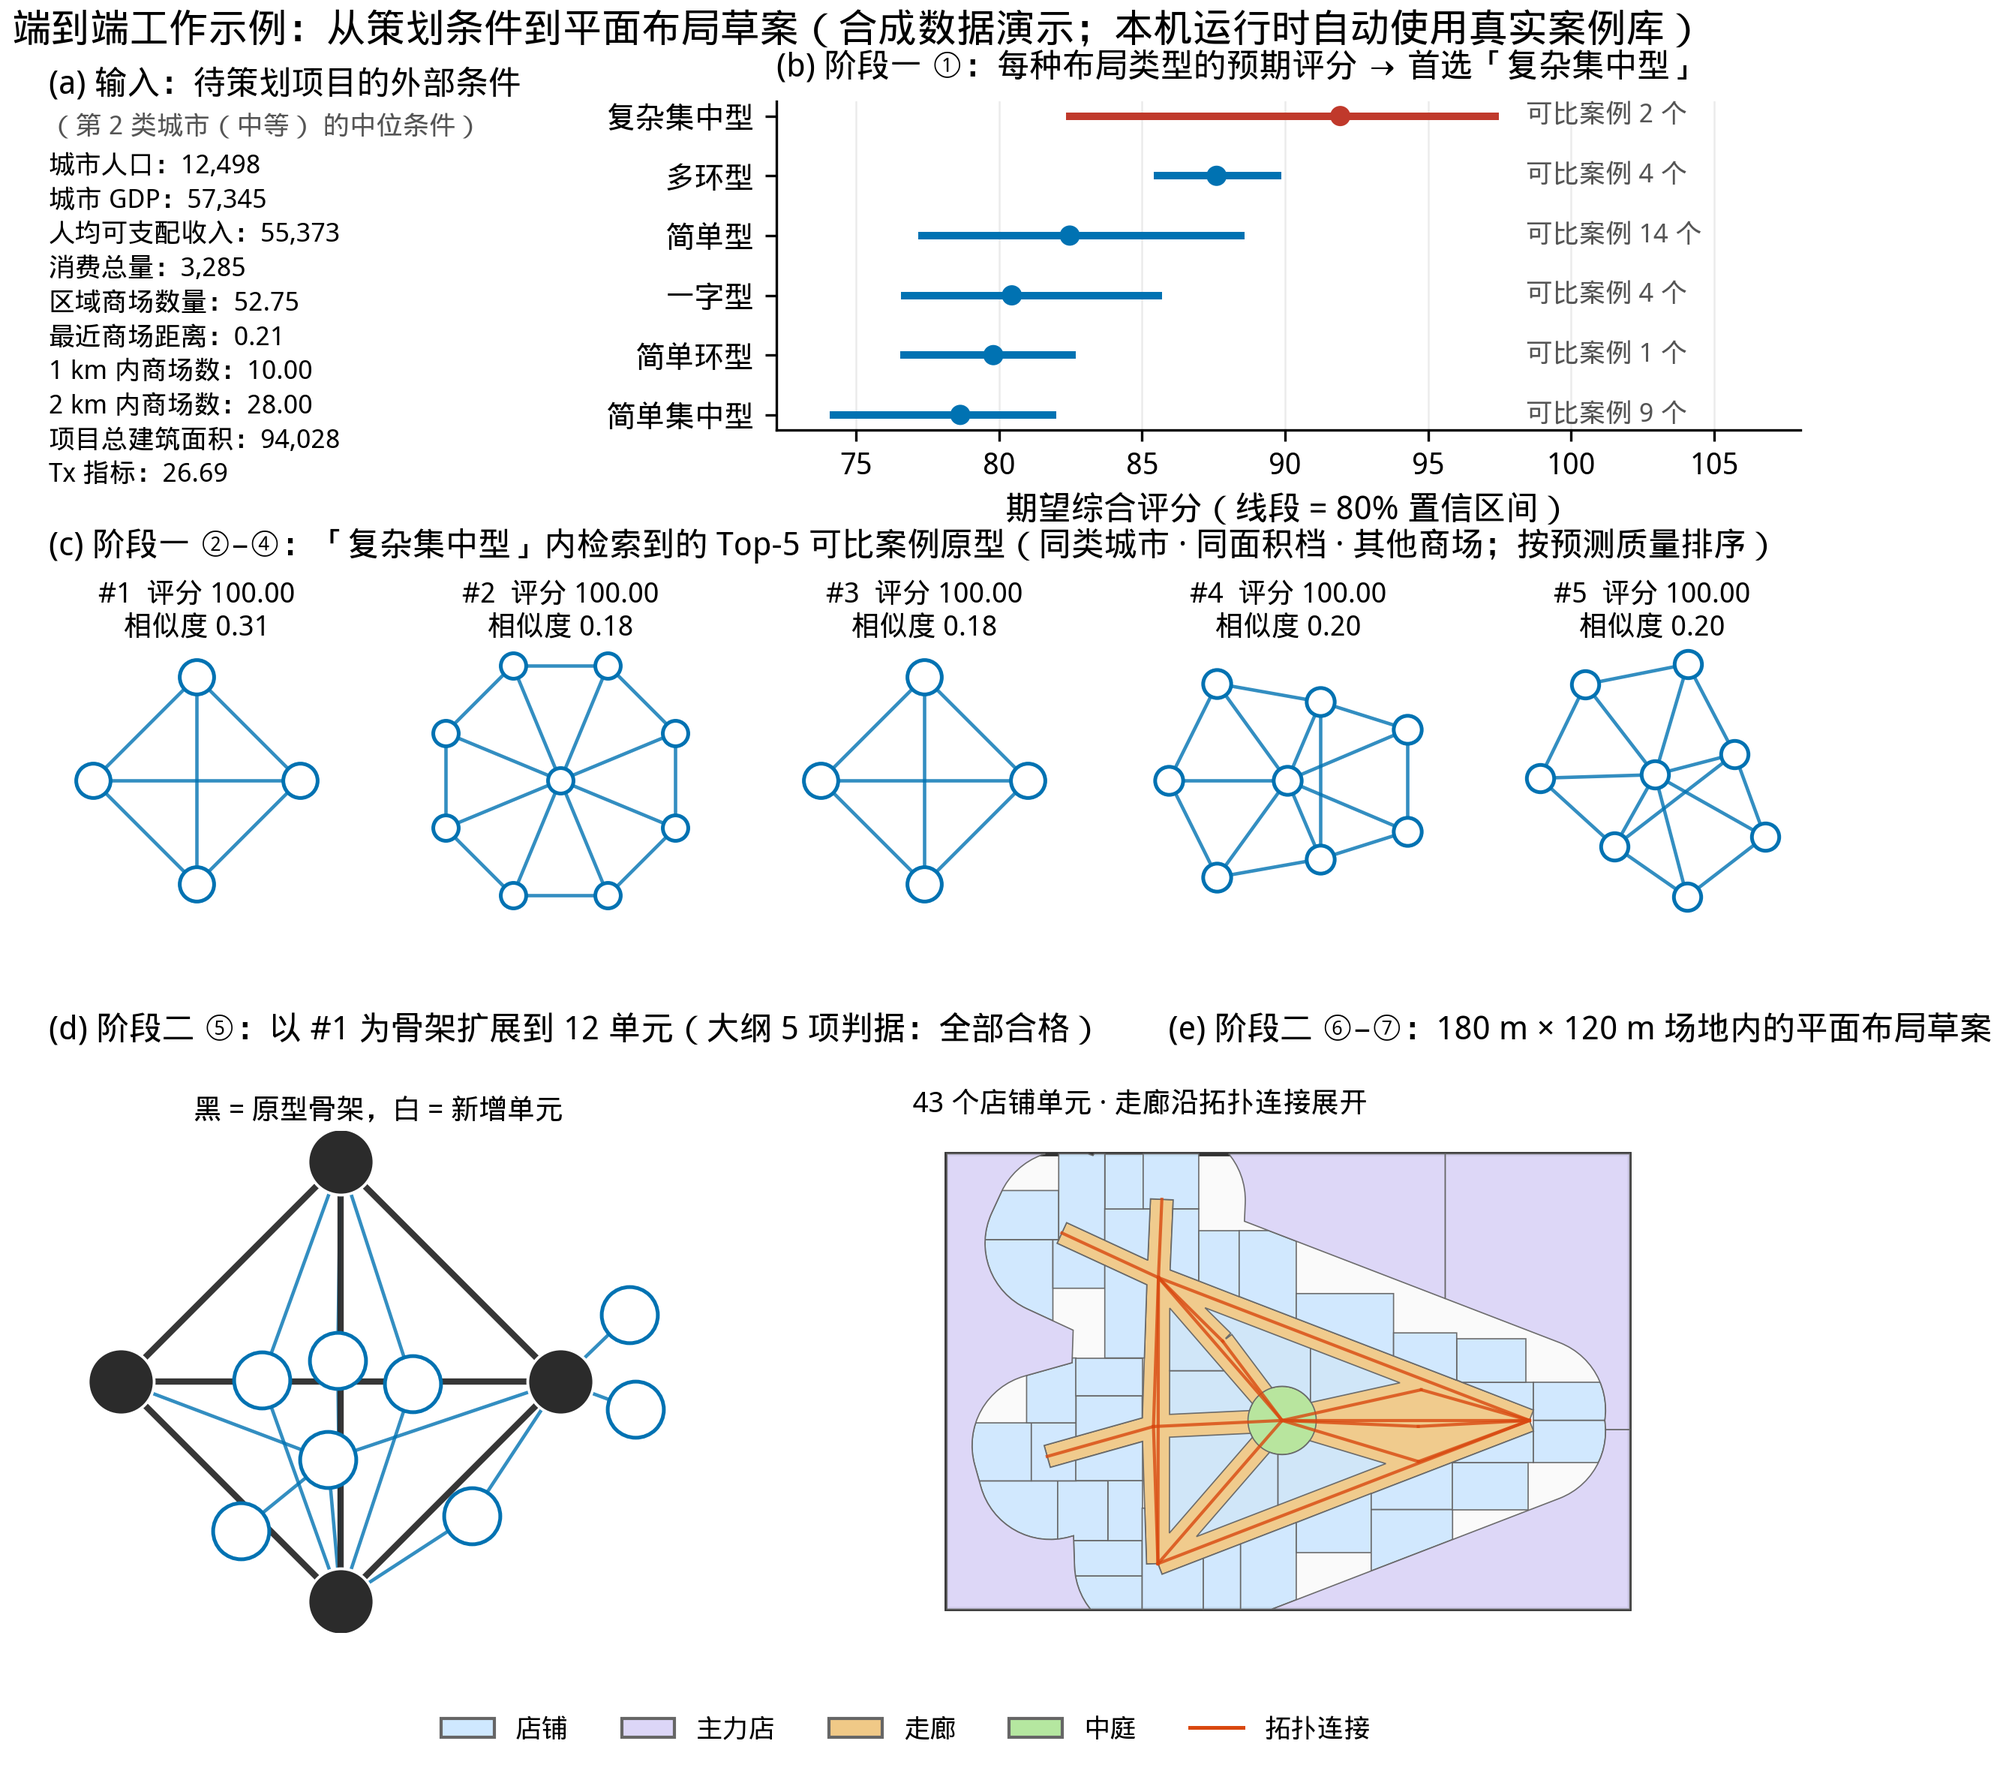
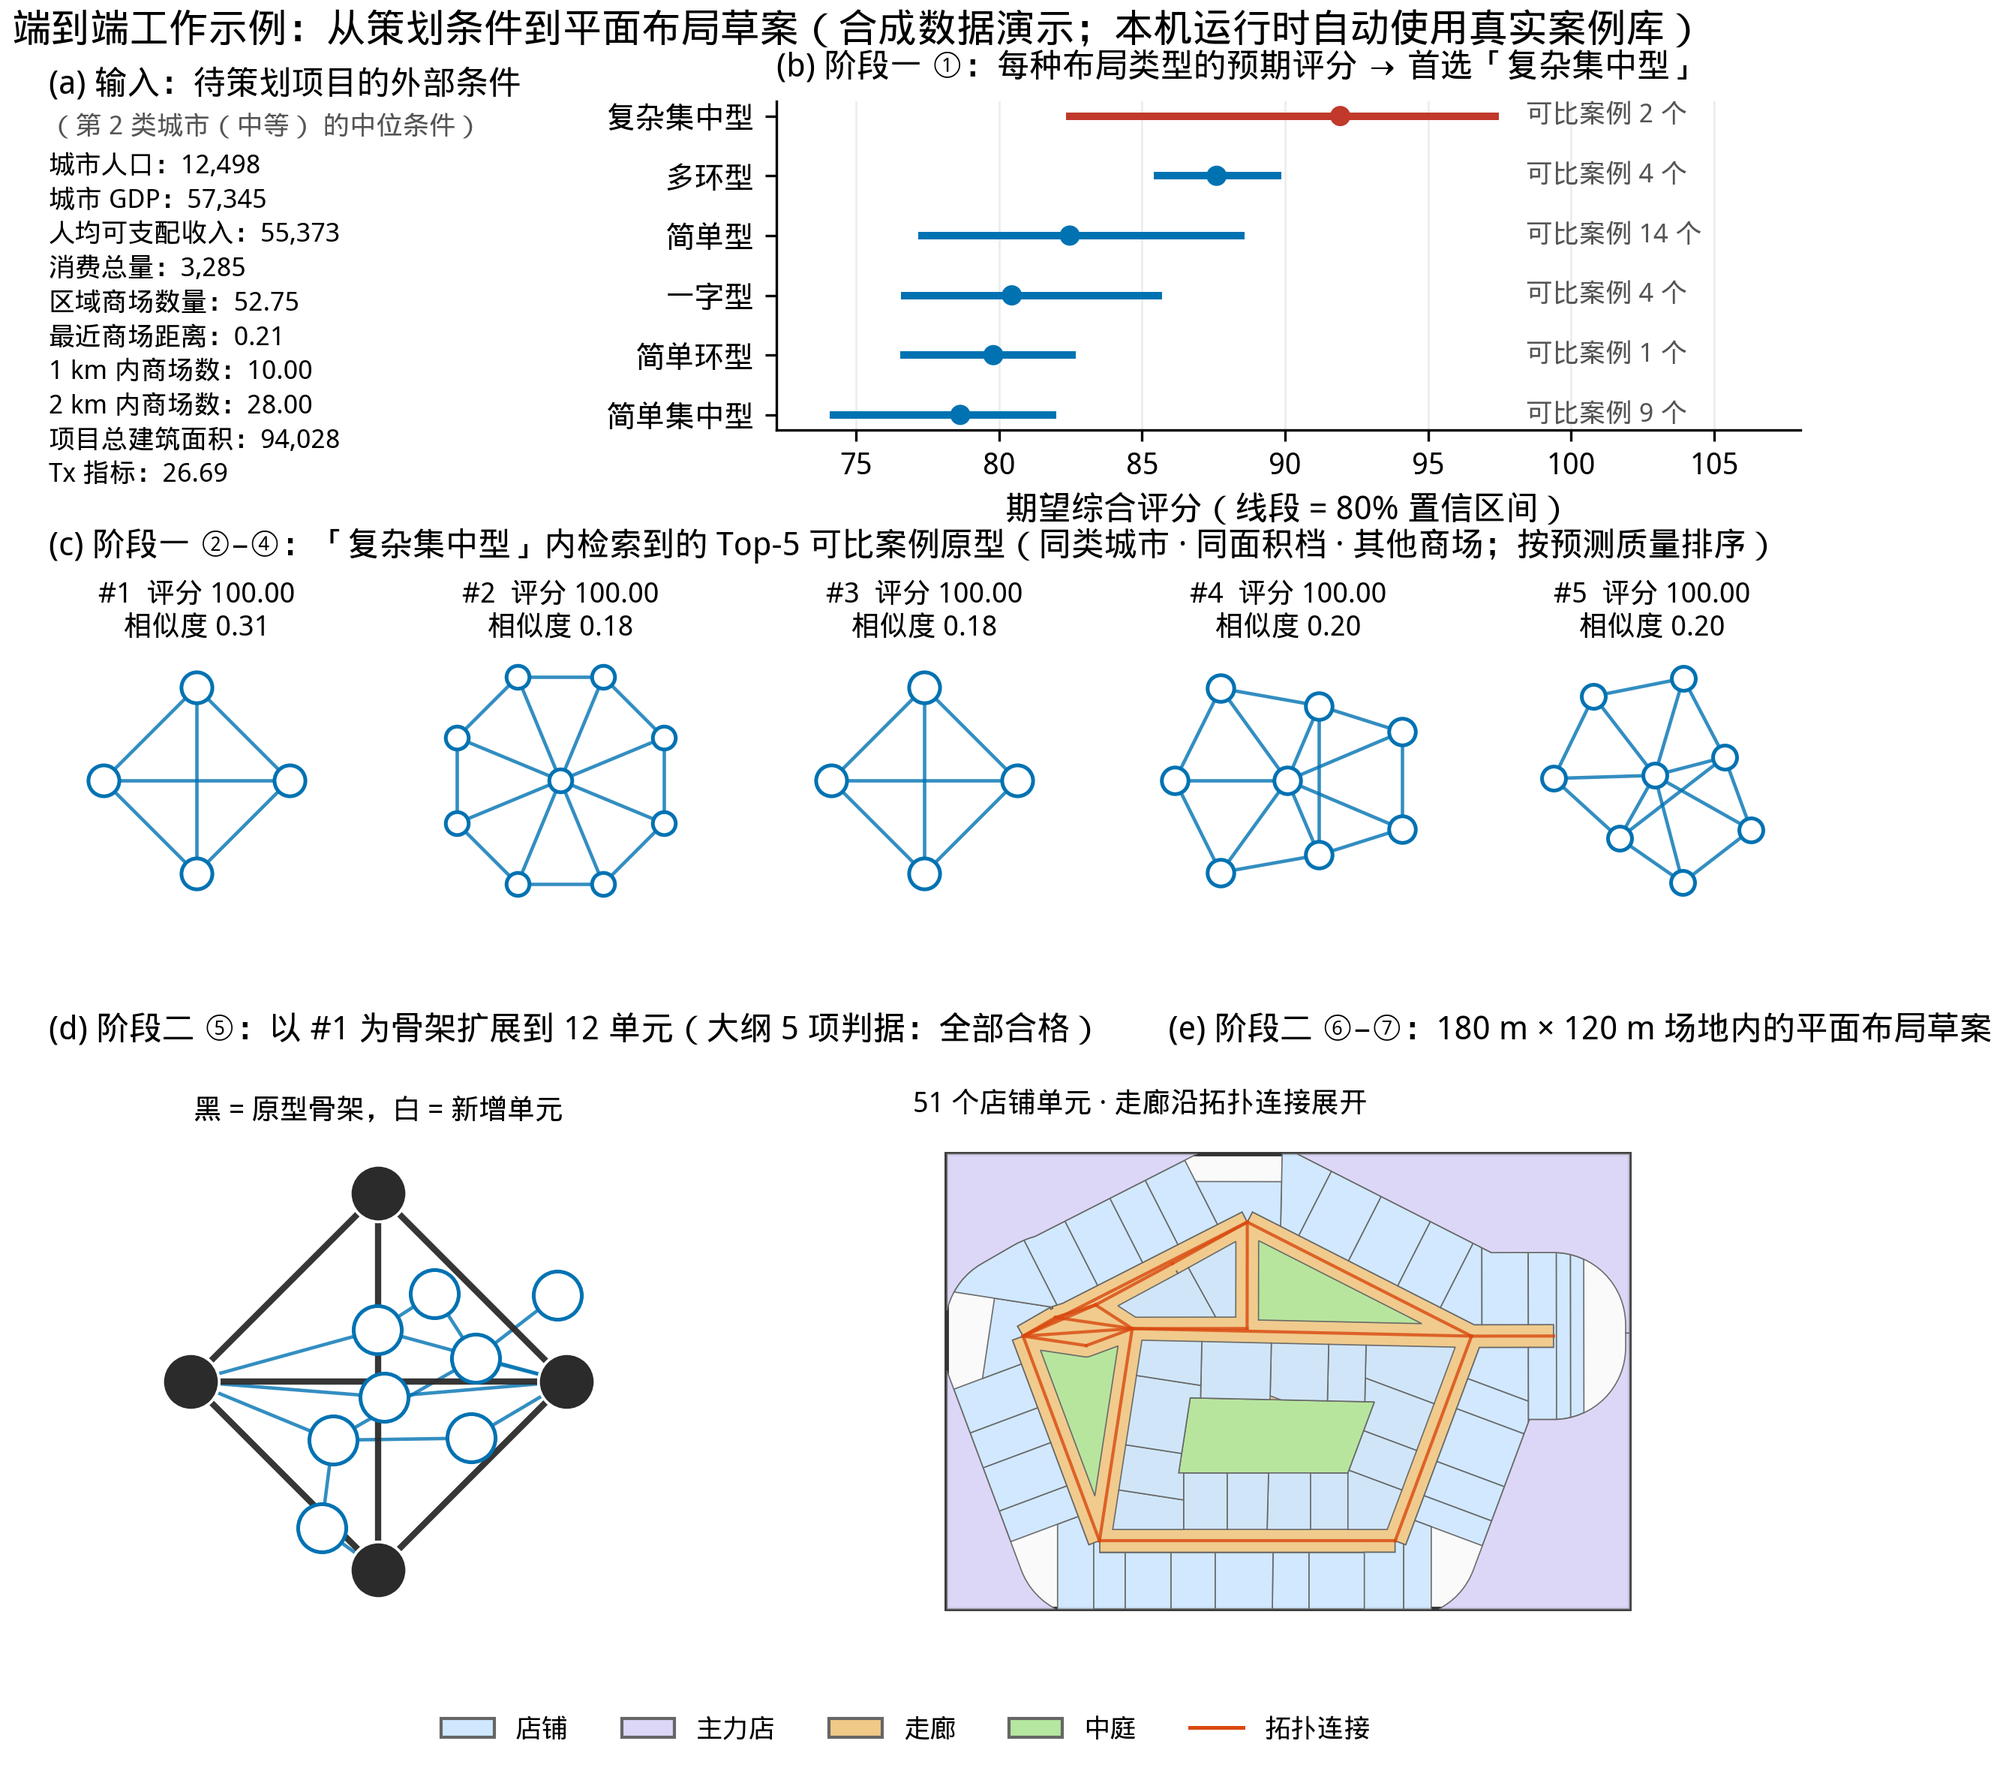
feat(stage2): rule expander bridge op + planar guard; round-5 Mac script (corpus v2 build, calibrated thresholds, v3 ablations greedy_order/no_planar); preview_decoder + calibrate_stage2_thresholds scripts; F09 with planar_corridor; docs

diff --git a/src/mall_space_planner/stage2/generators/rule_expander.py b/src/mall_space_planner/stage2/generators/rule_expander.py
@@ -10,7 +10,13 @@ nodes by three operations chosen stochastically with configurable probabilities,
 * ``branch``     – attach a degree-1 node (dead-end corridor / anchor shop) to a node,
   preferring low-degree skeleton nodes.
 * ``chord``      – connect two existing nodes at graph distance 2–3 to create a loop
-  (only for loop-type layouts by default).
+  (only for loop-type layouts by default). Since corpus v2 showed that real expansions never add
+  an edge between two *skeleton* nodes, chords whose both endpoints are skeleton nodes are skipped.
+* ``bridge``     – add a node connected to **two** existing nodes at graph distance 2–4 (a new
+  corridor segment closing a loop through the new key-point) – the dominant growth pattern in the
+  real corridor topologies (≈ 75 % of new nodes have ≥ 2 anchors).
+
+``planar_guard`` (default on) rejects operations that would make the graph non-planar.
 
 The mixture is tuned so that density and ASPL track the expected baselines of the
 evaluation spec: the target average degree is kept close to the skeleton's average degree.
@@ -32,15 +38,16 @@ from mall_space_planner.stage2.base import BaseTopologyGenerator, GenerationRequ
 from mall_space_planner.topology.convert import from_networkx, to_networkx
 
 _LAYOUT_PRIORS: dict[LayoutType | None, dict[str, float]] = {
-    None: {"subdivide": 0.35, "branch": 0.45, "chord": 0.20},
-    LayoutType.LINEAR: {"subdivide": 0.35, "branch": 0.60, "chord": 0.05},
-    LayoutType.SIMPLE: {"subdivide": 0.30, "branch": 0.65, "chord": 0.05},
-    LayoutType.SIMPLE_LOOP: {"subdivide": 0.40, "branch": 0.45, "chord": 0.15},
-    LayoutType.MULTI_LOOP: {"subdivide": 0.35, "branch": 0.30, "chord": 0.35},
-    LayoutType.SIMPLE_CENTRAL: {"subdivide": 0.30, "branch": 0.60, "chord": 0.10},
-    LayoutType.COMPLEX_CENTRAL: {"subdivide": 0.30, "branch": 0.40, "chord": 0.30},
-    LayoutType.UNKNOWN: {"subdivide": 0.35, "branch": 0.45, "chord": 0.20},
+    None: {"subdivide": 0.30, "branch": 0.30, "chord": 0.10, "bridge": 0.30},
+    LayoutType.LINEAR: {"subdivide": 0.35, "branch": 0.40, "chord": 0.05, "bridge": 0.20},
+    LayoutType.SIMPLE: {"subdivide": 0.30, "branch": 0.45, "chord": 0.05, "bridge": 0.20},
+    LayoutType.SIMPLE_LOOP: {"subdivide": 0.35, "branch": 0.30, "chord": 0.10, "bridge": 0.25},
+    LayoutType.MULTI_LOOP: {"subdivide": 0.30, "branch": 0.20, "chord": 0.15, "bridge": 0.35},
+    LayoutType.SIMPLE_CENTRAL: {"subdivide": 0.30, "branch": 0.40, "chord": 0.05, "bridge": 0.25},
+    LayoutType.COMPLEX_CENTRAL: {"subdivide": 0.30, "branch": 0.25, "chord": 0.15, "bridge": 0.30},
+    LayoutType.UNKNOWN: {"subdivide": 0.30, "branch": 0.30, "chord": 0.10, "bridge": 0.30},
 }
+_OP_NAMES = ["subdivide", "branch", "chord", "bridge"]
 
 
 @dataclass
@@ -48,9 +55,10 @@ class _Ops:
     subdivide: float
     branch: float
     chord: float
+    bridge: float = 0.0
 
     def normalised(self) -> np.ndarray:
-        v = np.array([self.subdivide, self.branch, self.chord], dtype=float)
+        v = np.array([self.subdivide, self.branch, self.chord, self.bridge], dtype=float)
         return v / v.sum()
 
 
@@ -74,11 +82,13 @@ class RuleBasedExpander(BaseTopologyGenerator):
         target_degree_tolerance: float = 0.15,
         label_style: str = "letters",
         max_iters_factor: int = 20,
+        planar_guard: bool = True,
     ) -> None:
         self.op_probs = op_probs
         self.target_degree_tolerance = target_degree_tolerance
         self.label_style = label_style
         self.max_iters_factor = max_iters_factor
+        self.planar_guard = planar_guard
 
     # ------------------------------------------------------------------ helpers
     def _ops(self, layout: LayoutType | None) -> _Ops:
@@ -109,6 +119,15 @@ class RuleBasedExpander(BaseTopologyGenerator):
         layout = request.constraints.layout_type or request.prototype.layout_type
         probs = self._ops(layout).normalised()
         ref_deg = self._avg_degree(g)
+        sk_nodes = set(skeleton.nodes)
+
+        def _try_add(w: str, anchors: list[str]) -> bool:
+            g.add_node(w)
+            g.add_edges_from((a, w) for a in anchors)
+            if self.planar_guard and len(anchors) >= 2 and not nx.check_planarity(g)[0]:
+                g.remove_node(w)
+                return False
+            return True
 
         counter = g.number_of_nodes()
         iters = 0
@@ -120,34 +139,47 @@ class RuleBasedExpander(BaseTopologyGenerator):
             cur = self._avg_degree(g)
             p = probs.copy()
             if cur > ref_deg * (1 + self.target_degree_tolerance):
-                p = p * np.array([0.5, 2.0, 0.2])
+                p = p * np.array([0.5, 2.0, 0.2, 0.4])
             elif cur < ref_deg * (1 - self.target_degree_tolerance):
-                p = p * np.array([1.5, 0.5, 1.5])
+                p = p * np.array([1.5, 0.5, 1.5, 1.5])
             p = p / p.sum()
-            op = ["subdivide", "branch", "chord"][int(rng.choice(3, p=p))]
+            op = _OP_NAMES[int(rng.choice(len(_OP_NAMES), p=p))]
 
             if op == "subdivide" and g.number_of_edges() > 0:
                 edges = list(g.edges)
                 u, v = edges[int(rng.randint(len(edges)))]
                 w = _new_label(g, self.label_style, counter)
-                counter += 1
-                g.add_node(w)
-                g.add_edge(u, w)
-                g.add_edge(w, v)  # keep (u,v) as well → skeleton edge preserved
+                if _try_add(w, [u, v]):  # keep (u,v) as well → skeleton edge preserved
+                    counter += 1
             elif op == "branch":
                 anchor = self._pick_node(g, rng, prefer_low_degree=True)
                 w = _new_label(g, self.label_style, counter)
                 counter += 1
                 g.add_node(w)
                 g.add_edge(anchor, w)
+            elif op == "bridge":  # new node closing a loop between two nodes at distance 2..4
+                u = self._pick_node(g, rng, prefer_low_degree=False)
+                lengths = nx.single_source_shortest_path_length(g, u, cutoff=4)
+                cands = [v for v, d in lengths.items() if 2 <= d <= 4]
+                w = _new_label(g, self.label_style, counter)
+                if cands and _try_add(w, [u, cands[int(rng.randint(len(cands)))]]):
+                    counter += 1
+                else:
+                    g.add_node(w)
+                    g.add_edge(u, w)
+                    counter += 1
             else:  # chord: connect nodes at distance 2..3 (does not add a node; bounded)
                 if g.number_of_nodes() < 4:
                     continue
                 u = self._pick_node(g, rng, prefer_low_degree=False)
                 lengths = nx.single_source_shortest_path_length(g, u, cutoff=3)
-                cands = [v for v, d in lengths.items() if 2 <= d <= 3 and not g.has_edge(u, v)]
+                # never add a skeleton–skeleton edge (violates the corpus invariant: prototype kept verbatim)
+                cands = [v for v, d in lengths.items() if 2 <= d <= 3 and not g.has_edge(u, v) and not (u in sk_nodes and v in sk_nodes)]
                 if cands:
-                    g.add_edge(u, cands[int(rng.randint(len(cands)))])
+                    v = cands[int(rng.randint(len(cands)))]
+                    g.add_edge(u, v)
+                    if self.planar_guard and not nx.check_planarity(g)[0]:
+                        g.remove_edge(u, v)
                 # a chord does not increase node count; add a branch to make progress
                 anchor = self._pick_node(g, rng, prefer_low_degree=True)
                 w = _new_label(g, self.label_style, counter)

diff --git a/scripts/calibrate_stage2_thresholds.py b/scripts/calibrate_stage2_thresholds.py
@@ -1,0 +1,56 @@
+#!/usr/bin/env python3
+"""Calibrate the Stage-2 outline thresholds on the *ground-truth* row of a corpus.
+
+The five outline metrics compare a generated topology with its skeleton (density / ASPL deviation
+etc.). Their pass thresholds were first set on corpus v1 (LLM-generated targets). On corpus v2 the
+real built topologies are much denser than their skeletons (sample B000A0E928_1: 28 → 83 edges), so
+the ground truth itself would fail a 40 % density-deviation threshold. This script sets every
+``*_max`` threshold to the ``--quantile`` (default 0.95) of the ground-truth distribution, so that
+"pass" means *within the range of real buildings*; it writes a YAML override you pass to the
+evaluations::
+
+  python scripts/evaluate_stage2.py --config configs/stage2/rule_baseline.yaml --corpus C.jsonl --ground-truth --override eval_output_dir=OUT
+  python scripts/calibrate_stage2_thresholds.py --gt OUT/ref_ground_truth/per_sample.csv --out configs/stage2/thresholds_v2.local.yaml
+  python scripts/evaluate_stage2.py --config configs/stage2/ar_gnn.yaml --override "$(cat configs/stage2/thresholds_v2.local.yaml.override)" ...
+
+Nothing is fabricated: the thresholds are data-derived and the file records the quantile + n.
+"""
+from __future__ import annotations
+
+import argparse
+import json
+from pathlib import Path
+
+import numpy as np
+import pandas as pd
+
+METRICS = {"node_deviation_pct": "node_deviation_pct_max", "density_deviation_pct": "density_deviation_pct_max", "aspl_deviation_pct": "aspl_deviation_pct_max"}
+
+
+def main() -> None:
+    ap = argparse.ArgumentParser()
+    ap.add_argument("--gt", required=True, help="per_sample.csv of the ref_ground_truth evaluation")
+    ap.add_argument("--quantile", type=float, default=0.95)
+    ap.add_argument("--out", default="configs/stage2/thresholds_v2.local.yaml")
+    a = ap.parse_args()
+    df = pd.read_csv(a.gt)
+    th = {}
+    for col, key in METRICS.items():
+        if col in df:
+            th[key] = float(np.ceil(np.nanquantile(df[col].astype(float), a.quantile)))
+    th["edge_accuracy_pct_min"] = 70.0  # prototype preservation is a hard invariant; keep
+    th["inference_time_s_max"] = 60.0
+    out = Path(a.out)
+    out.parent.mkdir(parents=True, exist_ok=True)
+    body = "# data-derived Stage-2 outline thresholds (quantile %.2f of the ground-truth row, n=%d)\n" % (a.quantile, len(df))
+    body += "stage2:\n  evaluator:\n    name: topology_spec\n    params:\n      thresholds: " + json.dumps(th) + "\n"
+    out.write_text(body, encoding="utf-8")
+    # one-line --override form for shell scripts
+    ov = " ".join(f"stage2.evaluator.params.thresholds.{k}={v}" for k, v in th.items())
+    Path(str(out) + ".override").write_text(ov + "\n", encoding="utf-8")
+    print(json.dumps(th, indent=1))
+    print(f"written: {out}  (+ .override)")
+
+
+if __name__ == "__main__":
+    main()

diff --git a/docs/experiments.md b/docs/experiments.md
@@ -139,3 +139,27 @@
 
 ## 7. 合成数据（仅流程验证）
 模型比较 / 消融 / 阶段二 / 保真度 / 类型推荐 / AR-GNN 训练与评估脚本均在合成数据上跑通；36 个测试通过；数值不具意义。
+
+## Stage-2 corpus v2 (real CSV graph triplets) — supersedes rounds 1–4 for Stage 2
+
+**Why.** `sharegpt_data.json` (rounds 1–4) turned out to be *LLM-generated* expansions, not real
+built topologies. All Stage-2 numbers in rounds 1–4 (R09–R14, F06/F07) therefore measure agreement
+with a synthetic target and are **superseded**; they are kept in `data/results_snapshot/stage2/` for
+provenance only.
+
+**Real corpus.** For every floor `{mall}_{k}` the graph export has `*_M_simplified.csv` (+ node
+attributes) = corridor skeleton (Stage-1 prototype) and `*_M.csv` = complete corridor key-point
+topology. `scripts/build_stage2_corpus.py` builds `data/processed/legacy/stage2_corpus_v2.jsonl`
+with a mall-grouped, cluster-stratified split (same protocol as Stage 1). Verified on
+`B000A0E928_1` (`tests/fixtures/graph_csv`): skeleton 25/28 → target 50/83; skeleton kept verbatim;
+planar; connected; new nodes attach to 1–4 present nodes ({1: 6, 2: 9, 3: 9, 4: 1}).
+
+**Model / decoder changes driven by the data.** AR-GNN v3 (iterative anchor/stop heads, up to 4
+anchors, planarity guard; `FEAT_VERSION=3`, old checkpoints must be retrained); rule expander gains a
+`bridge` op (new node closing a loop) and never adds skeleton–skeleton chords; geometry decoder
+`planar_corridor` (Tutte embedding of the corridor 2-core, loop holes → atria capped at
+`atrium_area_max`, branches perpendicular to the core, frontage-preserving shop split) replaces
+`corridor_partition` as default. Outline thresholds are calibrated on the ground-truth row
+(`scripts/calibrate_stage2_thresholds.py`, q=0.95) because real targets are much denser than skeletons.
+
+**Run (Mac):** `bash scripts/run_real_data_round5.sh` (or `GRAPH_DIR=... bash ...`). Results → `outputs/experiments/stage2_eval_r5/table.md`.
